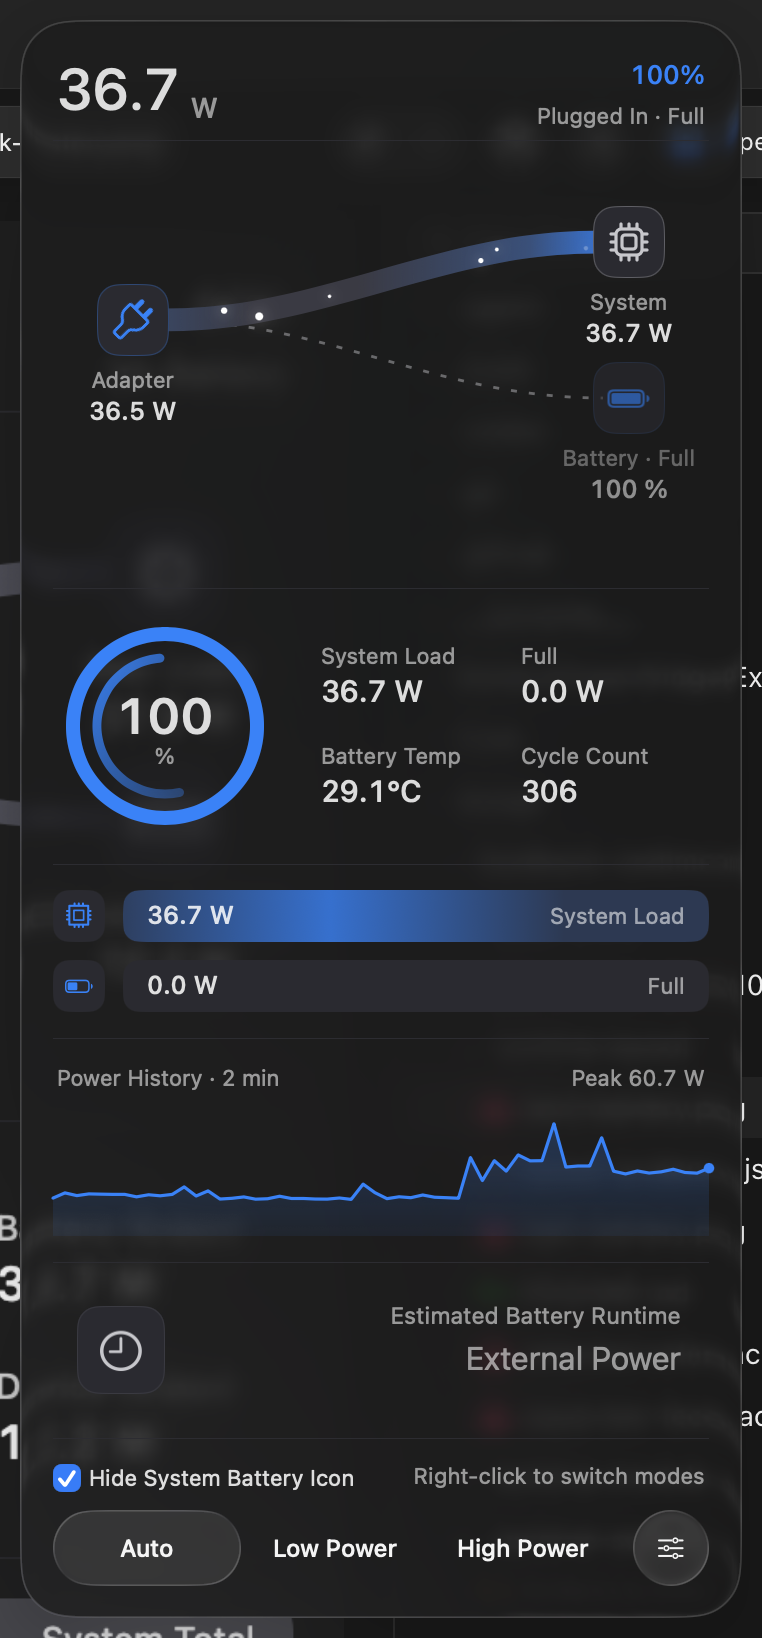
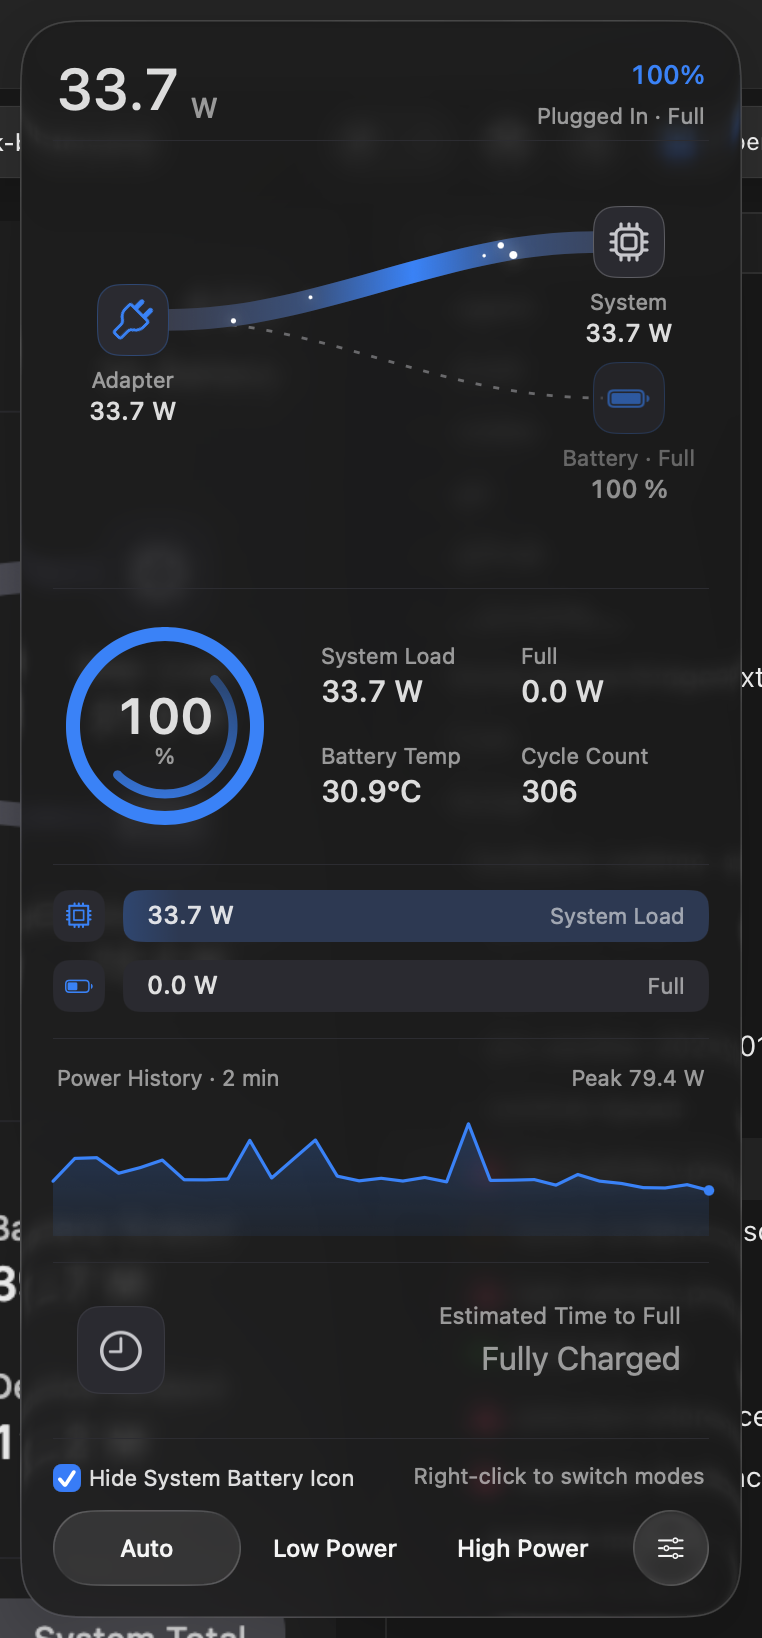
Capture installed dynamic battery time and glass controls

diff --git a/design/releases/v4.3.2/README.md b/design/releases/v4.3.2/README.md
@@ -2,11 +2,11 @@
 
 Battery Time Estimate is an independently selectable section below Power History, with the same separators and neutral colors as the other instruments. Its right-aligned title switches between **Estimated Battery Runtime** on battery power and **Estimated Time to Full** on external power. Charging shows macOS's time-to-full estimate; a full battery shows **Fully Charged**, and mixed supply shows **Not Charging**. This release also fixes repeated menu-bar clicks and glass clipping, and adds diagnostic feedback through a reviewable GitHub issue draft.
 
-## Earlier installed trial: replacement capture pending
+## Installed app: Standard Glass
 
-The image below is a composited screen-region capture of the earlier installed local 4.3.2 trial, taken on 2026-10-14 from [`ff2274a`](https://github.com/laleoarrow/battery-monitor/commit/ff2274a7becef9c4600d415396db1d46c51a444c). It preserves the native Standard Glass controls, but its **External Power** runtime status predates the dynamic battery-time behavior shown in the new fixtures below. This older trial image is pending replacement before publication and is not evidence of the current charging/full labels.
+The image below is a composited screen-region capture of the installed local 4.3.2 build, taken on 2026-10-15 from [`eca5869`](https://github.com/laleoarrow/battery-monitor/commit/eca5869). It preserves the native Standard Glass backdrop and power-mode controls. The Mac was connected to external power with its battery full, so the new section shows **Estimated Time to Full / Fully Charged**. This is an actual running-app capture, not a generated mockup; the displayed power readings are live.
 
-<a href="installed-standard-dark-screen.png"><img src="installed-standard-dark-screen.png" alt="Earlier local Wattson 4.3.2 trial in Standard Glass, Dark appearance; old External Power status pending replacement" width="360"></a>
+<a href="installed-standard-dark-screen.png"><img src="installed-standard-dark-screen.png" alt="Installed Wattson 4.3.2 in Standard Glass, Dark appearance: Estimated Time to Full / Fully Charged and native glass power-mode controls" width="360"></a>
 
 ## Power-state layout previews: Classic
 
